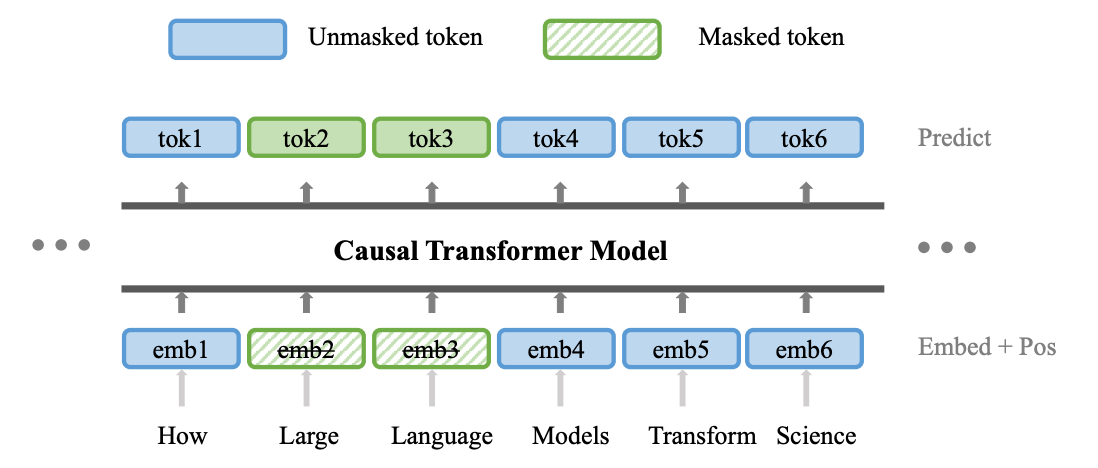
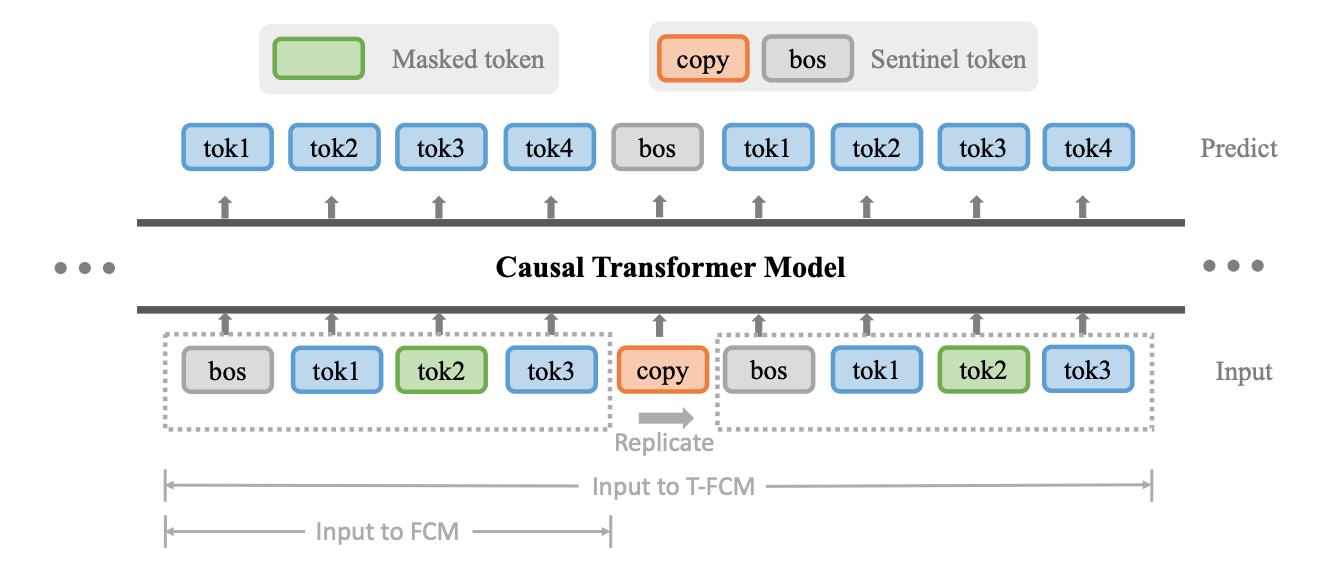
update fcm paper

diff --git a/index.html b/index.html
@@ -182,7 +182,7 @@
         <div class="card horizontal">
           <div class="card-stacked">
             <div class="card-content">
-              <h5 class="center">FCM: Forgetful Causal Masking Makes Causal Language Models Better Zero-Shot Learners</h5>
+              <h5 class="center">Towards Better Few-Shot and Finetuning Performance with Forgetful Causal Language Models</h5>
               <p class="center">Hao Liu*, Xinyang Geng*, Lisa Lee, Igor Mordatch, Sergey Levine, Sharan Narang, Pieter Abbeel</p>
               <br>
               <p class="center"><img src="images/fcm.png", style="width: 75%"></p>
@@ -197,18 +197,11 @@
                 randomly selected past tokens masked out, we can improve the quality of the
                 learned representations for downstream language understanding tasks. We
                 hypothesize that randomly masking past tokens prevents over-attending to recent
-                tokens and encourages attention to tokens in the distant past. By randomly
-                masking input tokens in the PaLM model, we show that we can significantly
-                improve 1B and 8B PaLM's zero-shot performance on the SuperGLUE benchmark from
-                55.7 to 59.2 and from 61.6 to 64.0, respectively. Our largest 8B model matches
-                the score of PaLM with an average score of 64, despite the fact that PaLM is
-                trained on a much larger dataset (780B tokens) of high-quality conversation and
-                webpage data, while ours is trained on the smaller C4 dataset (180B tokens).
-                Experimental results show that our method also improves PaLM's zero and few-
-                shot performance on a diverse suite of tasks, including commonsense reasoning,
-                natural language inference and cloze completion. Moreover, we show that our
-                technique also helps representation learning, significantly improving PaLM's
-                finetuning results.
+                tokens and encourages attention to tokens in the distant past. We find that our
+                method, Forgetful Causal Masking (FCM), significantly improves both few-shot
+                and finetuning performance of PaLM. We further consider a simple extension,
+                T-FCM, which introduces bidirectional context to causal language model without
+                altering the sequence order, and further improves finetuning performance.
               </p>
             </div>
             <div class="card-action">
